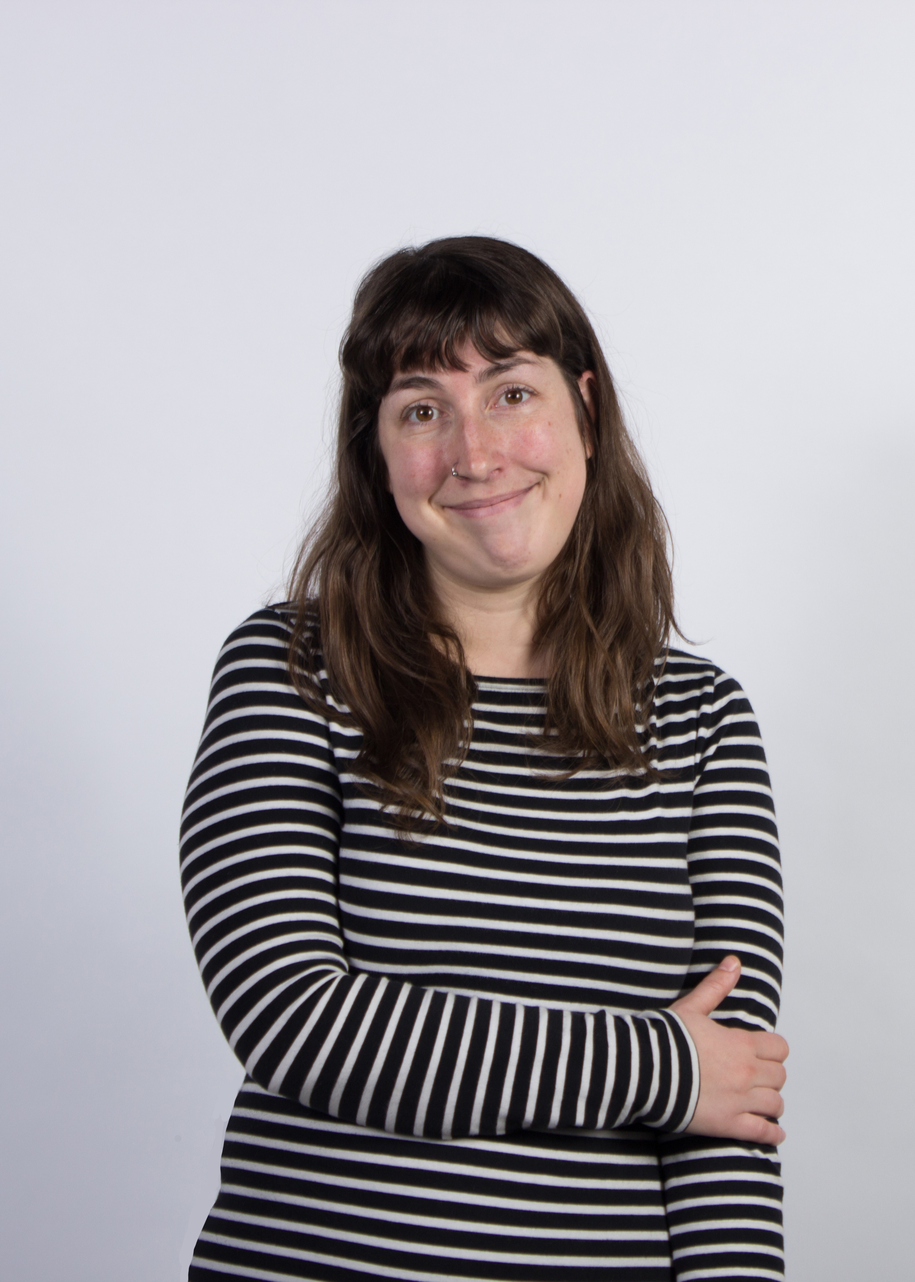
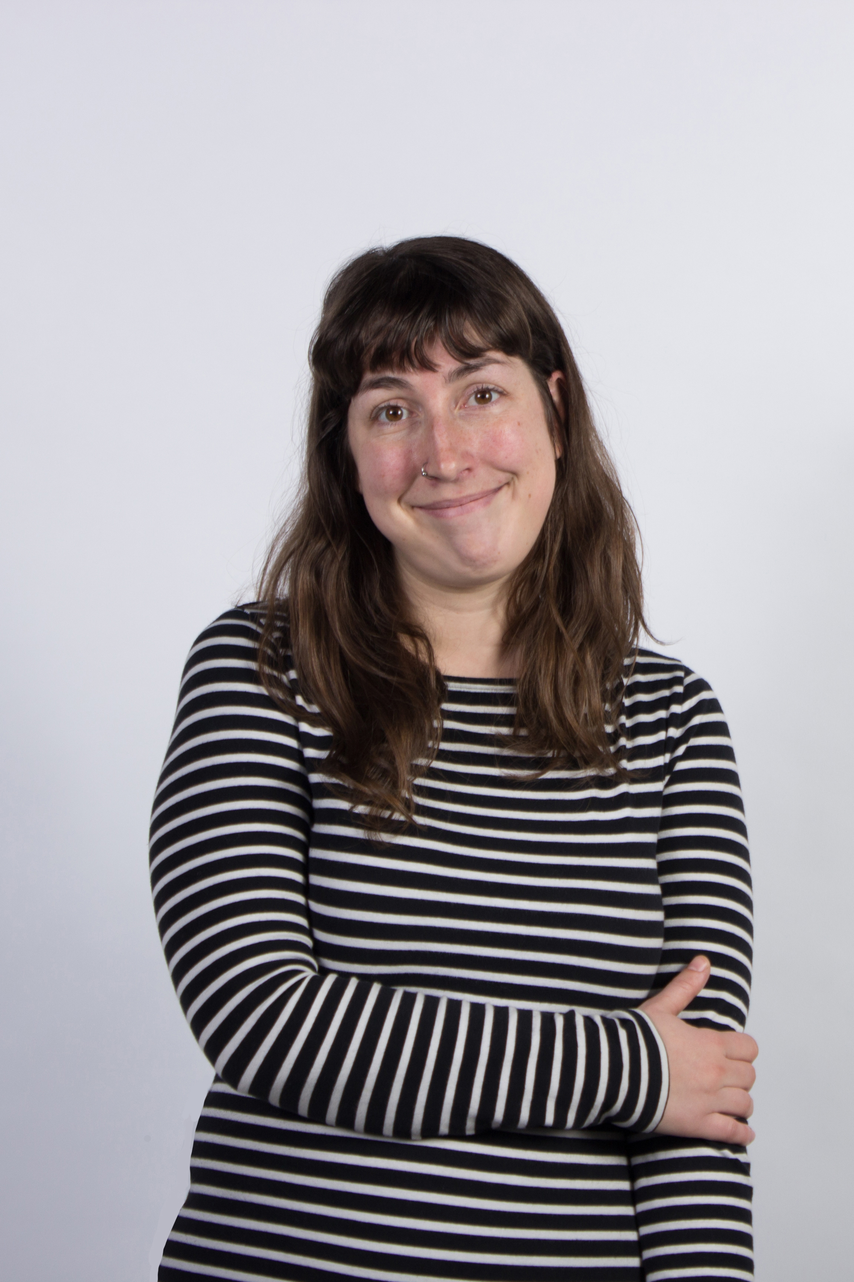
Add javascript to have image change on rollover

Changed region(s): [[0.1562, 0.1875, 0.9062, 1.0], [0.4375, 0.4062, 0.4688, 0.4375]]

diff --git a/index.html b/index.html
@@ -11,18 +11,30 @@
   <link href="css/type.css" rel="stylesheet">
   <link href="css/main.css" rel="stylesheet">
   <link href="https://fonts.googleapis.com/css?family=Work+Sans:500,700" rel="stylesheet">
+  <script language="javascript">
+        function MouseRollover(MyImage) {
+        MyImage.src = "images/portrait-overlay.jpg";
+    }
+        function MouseOut(MyImage) {
+        MyImage.src = "images/portrait.jpg";
+    }
+  </script>
 </head>
 <body class="wrapper margin-0">
-  <header class="push">
+  <header class="push-2">
       <div class="embed embed-5by1">
         <img class="embed-item hero-banner img-flex" src="images/headerimg.jpg" alt="">
       </div>
-
       <hr class="yellow-band">
   </header>
 
   <main class="grid push-2">
-    <div class="unit unit-xs-1 unit-s-1 unit-offset-m-1-2 unit-offset-l-1-2 unit-offset-xl-1-2">
+    <div class="unit unit-xs-1-hidden unit-s-hidden unit-m-1-2 unit-l-1-2 unit-xl-1-2 gutter">
+      <div class="portrait embed embed-2by3">
+        <img class="embed-item img-flex" src="images/portrait.jpg" onMouseOver="MouseRollover(this)" onMouseOut="MouseOut(this)" alt="">
+      </div>
+    </div>
+    <div class="unit unit-xs-1 unit-s-1 unit-m-1-2 unit-l-1-2 unit-xl-1-2">
       <h1 class="tena push-1-4 gutter">Katie Sheedy</h1>
       <div class="gutter">
         <hr class="classic-rule">
@@ -36,7 +48,7 @@
   </main>
 
   <footer class="footer island-1-2">
-    <div class="text-center">
+    <div class="gutter">
       <p class="nano">© Katie Sheedy 2018</p>
     </div>
   </footer>

diff --git a/css/main.css b/css/main.css
@@ -36,6 +36,10 @@ a:hover {
   border-top: 5px solid #000;
 }
 
+.portrait {
+  border-bottom: 10px solid #efc10f;
+}
+
 footer {
   background-color: #fff;
   color: var(--color-neutral-grey);
